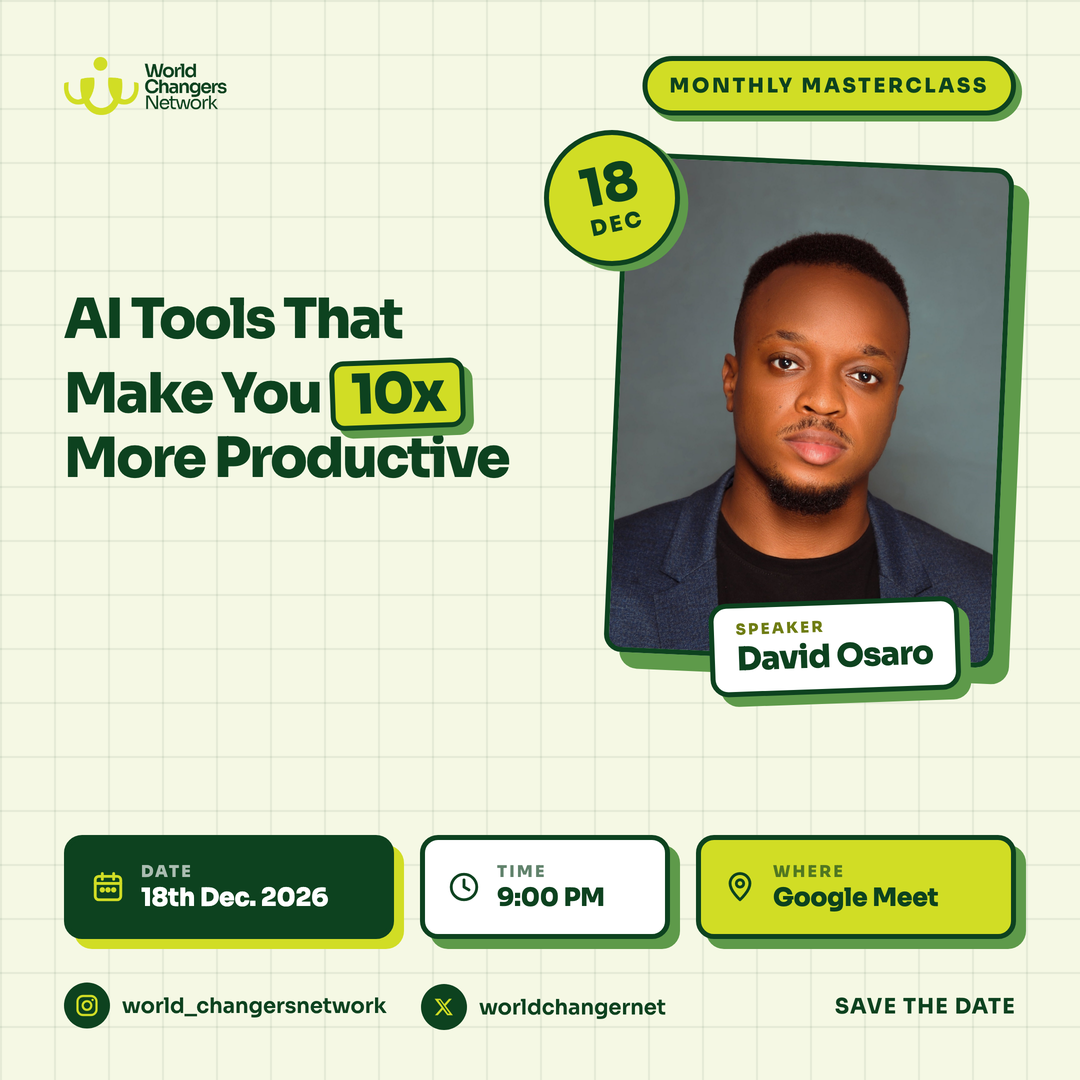
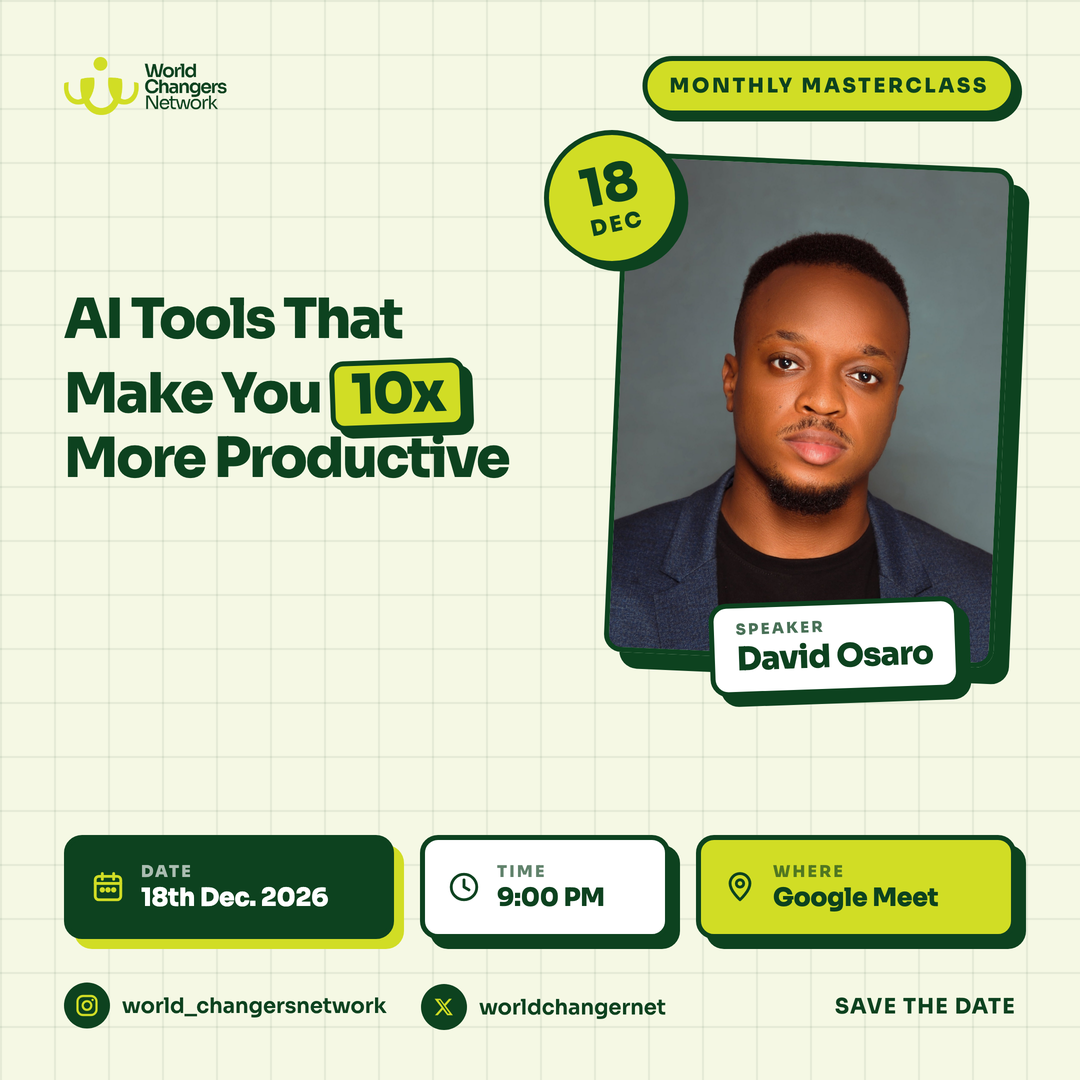
Masterclass brutal: brand forest and lime only (shadows and labels)

diff --git a/tools/masterclass.py b/tools/masterclass.py
@@ -368,7 +368,7 @@ def layout_pass(row):
 </div>"""
 
 
-SHADE = "#5E9A4A"   # lighter green for the hard shadows (Arkcore, 25 Nov)
+SHADE = FOREST   # hard shadows in brand forest only (Arkcore, 25 Nov: brand colours only)
 BRUTAL_CSS = """
 .nb{position:absolute;inset:0;color:%(F)s;background-color:#F5F8E4;
   background-image:linear-gradient(rgba(13,66,31,.07) 2px,transparent 2px),
@@ -413,7 +413,7 @@ def layout_brutal(row):
   background:url({photo_uri(row)}) {row.get('Photo position') or '50% 20%'}/cover no-repeat"></div>
 <div class="box" style="position:absolute;right:120px;top:{600+o+(0 if SQ else 120)}px;background:#fff;padding:12px 22px;
   transform:rotate(-2deg)">
-  <div style="font-size:15px;letter-spacing:.16em;font-weight:800;color:#6f7d14">SPEAKER</div>
+  <div style="font-size:15px;letter-spacing:.16em;font-weight:800;color:{FOREST};opacity:.75">SPEAKER</div>
   <div style="font-family:'Display';font-weight:800;font-size:32px;letter-spacing:-.02em">{g.esc(row['Host'])}</div>
   {f'<div style="font-size:19px;font-weight:700;opacity:.7">{g.esc(row.get("Also known as","").strip())}</div>' if row.get("Also known as","").strip() else ''}</div>
 <div class="box" style="position:absolute;right:400px;top:{130+o}px;width:136px;height:136px;border-radius:50%;
